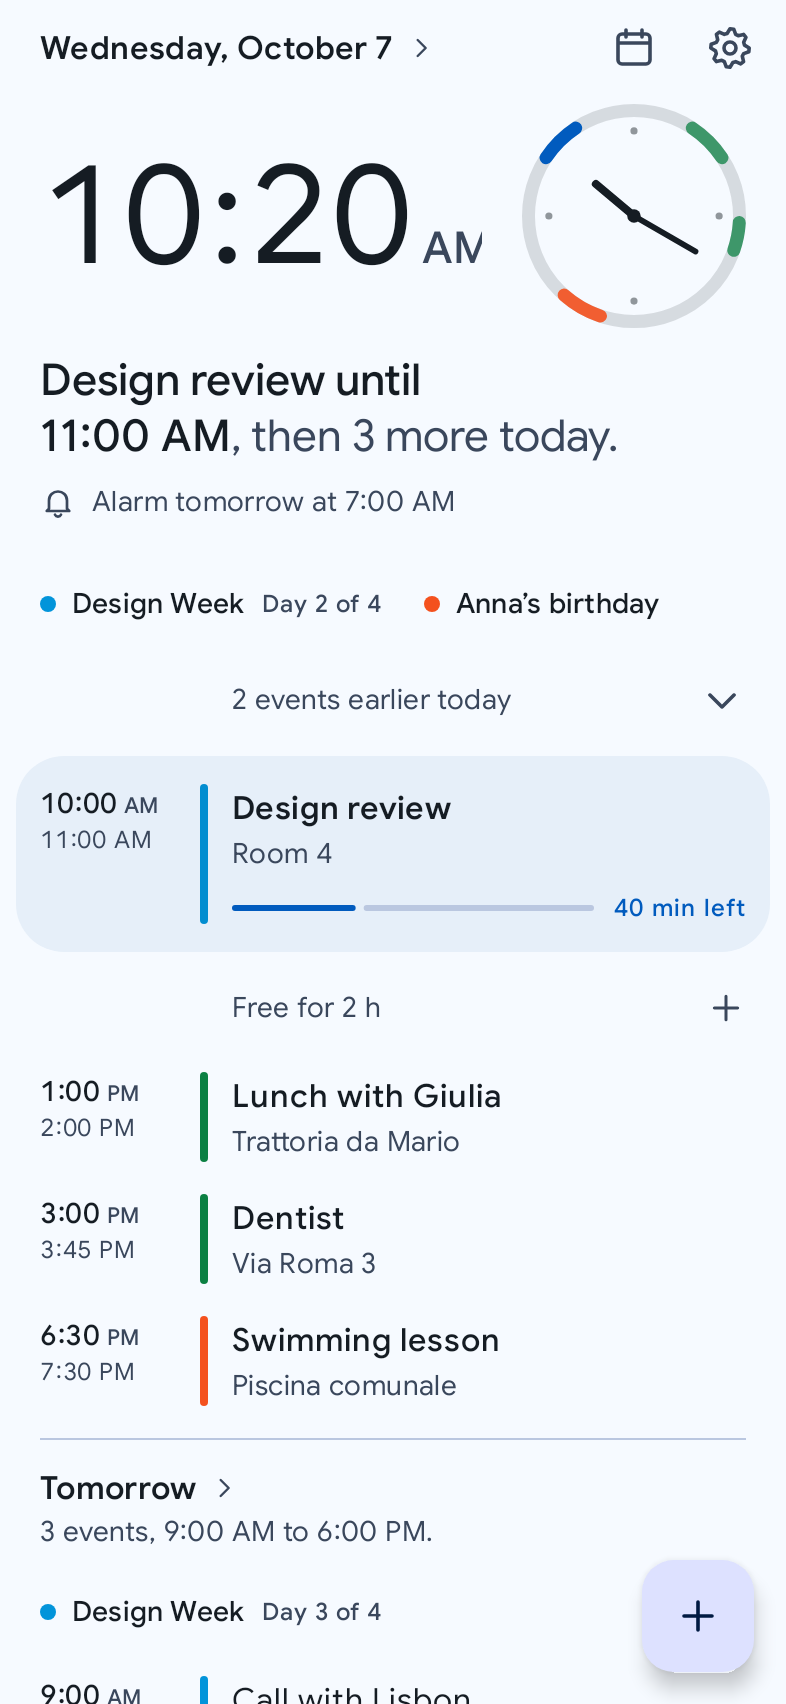
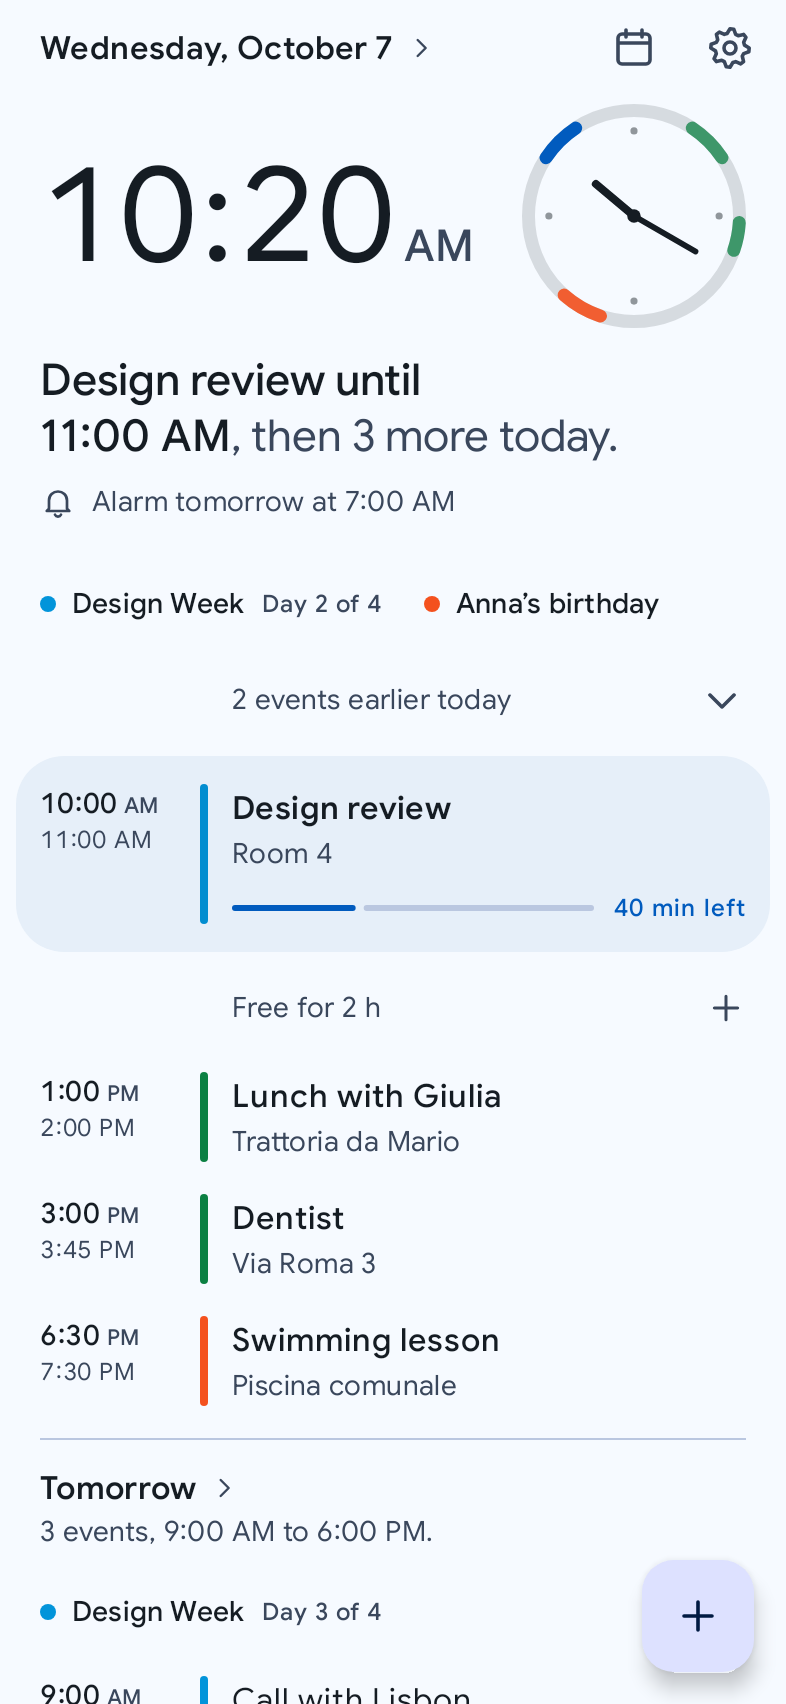
Today's day marker is whole beside the dial on the 12-hour clock
On a phone 393 dp wide "AM" lost its second letter beside the dial (it was
so on main, in the README's own picture). The clock's figures are drawn
one by one, so that only the one that changed rolls, and were measured as
one text: a text's tracking is not applied at a line's two ends, so the
figures apart stand wider than the whole by four times the hero's -0.03 em,
and the row took the marker's room. They are now measured as drawn. A test
at the README's size fails on a cut marker; Today's pictures regenerated.

Changed region(s): [[0.1527, 0.0933, 0.6107, 0.1555], [0.0916, 0.0933, 0.1221, 0.1555]]

diff --git a/feature/today/src/test/kotlin/com/callbackdev/tempo/feature/today/TodayScreenTest.kt b/feature/today/src/test/kotlin/com/callbackdev/tempo/feature/today/TodayScreenTest.kt
@@ -5,6 +5,7 @@ import androidx.compose.runtime.getValue
 import androidx.compose.runtime.mutableStateOf
 import androidx.compose.runtime.setValue
 import androidx.compose.runtime.snapshots.Snapshot
+import androidx.compose.ui.graphics.asAndroidBitmap
 import androidx.compose.ui.semantics.Role
 import androidx.compose.ui.semantics.SemanticsActions
 import androidx.compose.ui.semantics.SemanticsProperties
@@ -18,6 +19,7 @@ import androidx.compose.ui.test.assertIsDisplayed
 import androidx.compose.ui.test.assertIsNotEnabled
 import androidx.compose.ui.test.assertTextEquals
 import androidx.compose.ui.test.assertWidthIsEqualTo
+import androidx.compose.ui.test.captureToImage
 import androidx.compose.ui.test.hasAnyAncestor
 import androidx.compose.ui.test.hasClickAction
 import androidx.compose.ui.test.hasContentDescription
@@ -285,6 +287,21 @@ class TodayScreenTest {
         compose.onNodeWithTag(TodayTags.LIST).performScrollToNode(hasTestTag(TodayTags.DATE))
         compose.onNodeWithTag(TodayTags.DATE).performClick()
         assertThat(day).isEqualTo(TodaySample.at("2026-10-07T10:20").toInstant())
+    }
+
+    @Test
+    @Config(qualifiers = "en-rUS-w393dp-h852dp-xhdpi")
+    fun `beside the dial the day marker is whole, on a narrower phone too`() {
+        draw(TodaySample.state(settings = TodaySample.settings.copy(clockFormat = ClockFormat.H12)))
+        compose.onNodeWithTag(TodayTags.TIME, useUnmergedTree = true).assertTextEquals("10:20\u202FAM")
+        // The marker keeps 4 dp of air after it. Cut short for want of room, its last letter
+        // ends in ink at the very edge of its own box; whole, it ends in the page's ground.
+        val clock = compose.onNodeWithTag(TodayTags.TIME, useUnmergedTree = true).captureToImage().asAndroidBitmap()
+        val ground = clock.getPixel(0, 0)
+        val air = (4 * compose.density.density).toInt()
+        val lastOfMarker = clock.width - 1 - air
+        val edge = (0 until clock.height).map { clock.getPixel(lastOfMarker, it) }
+        assertThat(edge.all { it == ground }).isTrue()
     }
 
     @Test

diff --git a/feature/today/src/main/kotlin/com/callbackdev/tempo/feature/today/TodayScreen.kt b/feature/today/src/main/kotlin/com/callbackdev/tempo/feature/today/TodayScreen.kt
@@ -935,10 +935,15 @@ private fun TextMeasurer.clockWidths(parts: TimeParts, styles: ClockStyles, dens
         measure(AnnotatedString(it), styles.marker, maxLines = 1, softWrap = false).size.width +
             with(density) { MARKER_GAP.roundToPx() }
     } ?: 0
-    // Each figure is laid out on its own and rounded up to a whole pixel, so the row is a
-    // little wider than the string measured whole: counted, or the marker lost its last pixels.
-    val figures = measure(AnnotatedString(parts.figures), styles.figures, maxLines = 1, softWrap = false).size.width +
-        parts.figures.length + with(density) { CLOCK_SLACK.roundToPx() }
+    // The figures are drawn one by one, each in its own place so that only the one that changed
+    // rolls ([RollingFigures]), and so they are measured: a text's tracking is not applied at the
+    // two ends of a line, so five figures apart keep none of the hero's (−0.03 em), and stand
+    // wider than "10:20" measured whole by four times that, about 10 dp at the clock's size. The
+    // row then took the day marker's room, and "AM" was cut beside the dial (seen in the README's
+    // own picture, 23 Nov 2026).
+    val figures = parts.figures.sumOf { figure ->
+        measure(AnnotatedString(figure.toString()), styles.figures, maxLines = 1, softWrap = false).size.width
+    } + with(density) { CLOCK_SLACK.roundToPx() }
     return ClockWidths(figures, marker)
 }
 

diff --git a/PLANNING.md b/PLANNING.md
@@ -1005,3 +1005,15 @@ row), set two calendar pictures side by side, and brought back the duplicate. Bu
 (`AgendaRows.kt`), which `DayHeading` now uses too; a screen reader still hears the date alone.
 No chevron where no calendar app takes the day. `today.png`, `today-evening-dark.png` and
 `today-tablet.png` regenerated.
+
+**Then, the same day: the day marker cut beside the dial** (owner: "fix the cut AM in this branch
+too"). Found while looking at the regenerated `today.png`, and already on `main`: on the 12-hour
+clock, on a phone 393 dp wide, "AM" lost its second letter beside the dial. The clock's figures
+are drawn one by one, each in its own place so that only the one that changed rolls, and were
+measured whole: a text's tracking is not applied at the two ends of a line, so five figures apart
+keep none of the hero's −0.03 em and stand about 10 dp wider at the clock's size than "10:20"
+measured as one text. The fit was reckoned on the narrower figure, and the row took the marker's
+room. `clockWidths` now measures the figures as they are drawn, one by one; the dial's size on a
+large screen, reckoned by the same function, is unchanged (200 dp on the tablet). A test at the
+README's size looks at the marker's last column of pixels: ink there is a letter cut. It failed
+before the change. `today.png` and `today-tablet.png` regenerated and looked at.

diff --git a/CHANGELOG.md b/CHANGELOG.md
@@ -69,6 +69,11 @@ All notable changes to Tempo are documented here. The format follows
   is left of today. A later day's events are in the list and in the words, no longer on the
   face, where tomorrow morning's read as tonight's hours and were cut short.
 
+### Fixed
+
+- **«AM» and «PM» whole beside the clock face.** On the 12-hour clock, on a narrower phone, the
+  day marker lost its last letter beside the clock face on Today.
+
 ## [1.1.0] - 2026-11-02
 
 **A second clock, your events' own time zones, two weeks ahead, and Today on a tablet**, with
